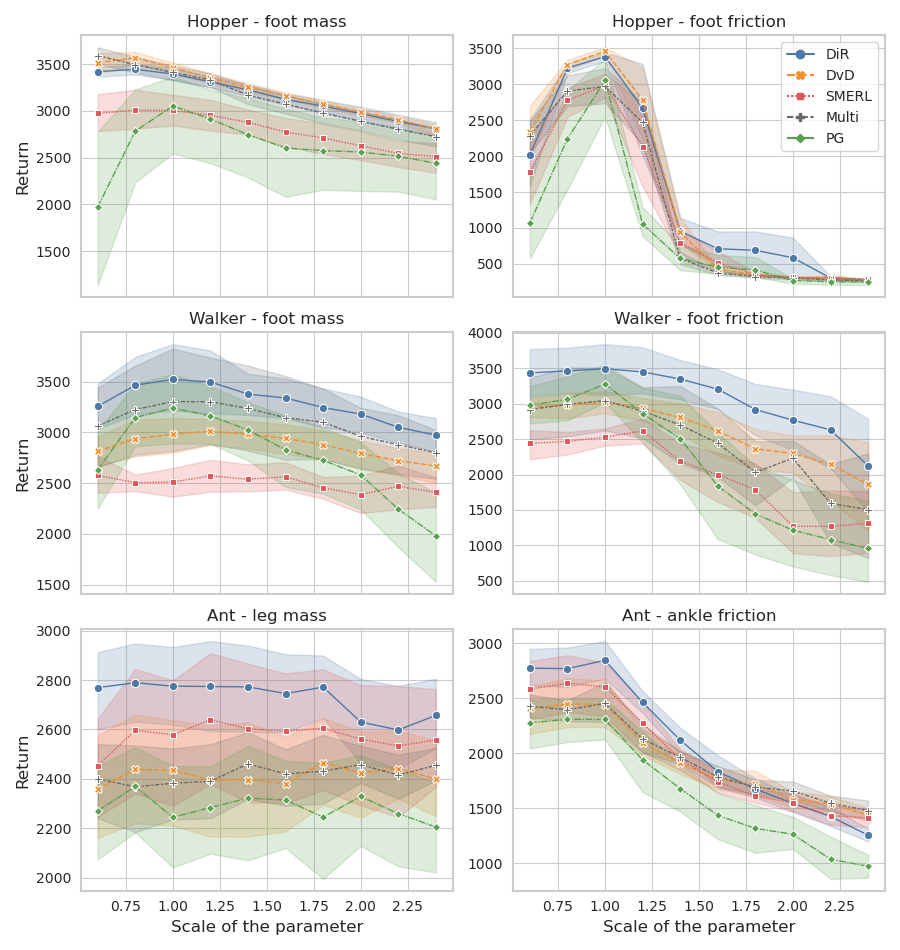
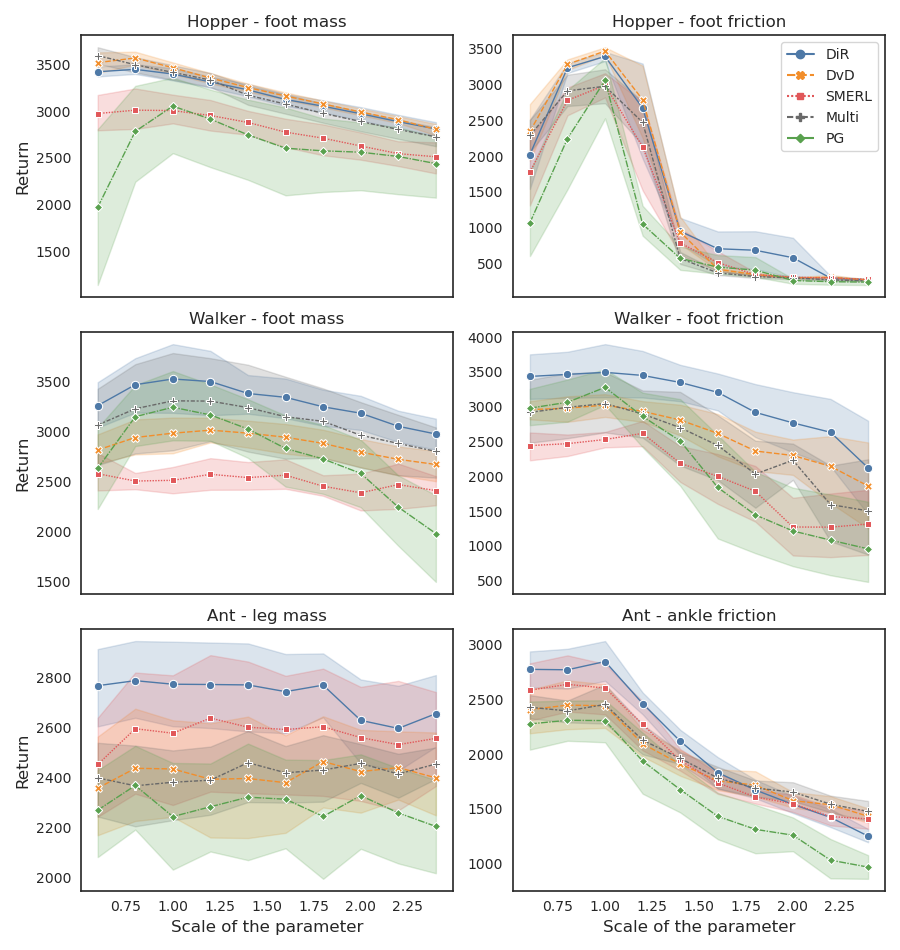
add new fig

diff --git a/experiment/train_ensemble.py b/experiment/train_ensemble.py
@@ -185,7 +185,7 @@ if __name__ == '__main__':
             }
         },
 
-        'num_primitive': 10,
+        'num_primitive': 15,
         'max_timesteps_per_primitive': 2000000,
         'save_interval': 40,
         'log_interval': 10,
@@ -208,9 +208,9 @@ if __name__ == '__main__':
     
     for env in [
         #'Hopper',
-        #'Walker',
+        'Walker',
         #'Ant',
-        'Minitaur'
+        #'Minitaur'
     ]:
         if env == 'Hopper':
             env_config = {
@@ -261,11 +261,12 @@ if __name__ == '__main__':
 
         for seed in [
             #10, 20, 30, 40, 50, 60, 70, 80
-            40, 50, 60
+            #40, 50, 60
+            10
         ]:
             config['env_config'] = env_config
             config['reward_tradeoff'] = tradeoff
             config['seed'] = seed
-            main(config, 'new_tradeoff')
+            #main(config, 'Open-ended-walker-15')
 
-    #demo('/home/xukang/Project/state_filtration_for_qd/results_for_ensemble/Walker-missing_leg_1-10/','best')
+    demo('/home/xukang/Project/state_filtration_for_qd/results_for_ensemble/Open-ended-walker-15-Walker-missing_leg_1-10/','best')

diff --git a/script_plot/visualize_feet_track.py b/script_plot/visualize_feet_track.py
@@ -43,7 +43,7 @@ def main(path: str, remark: str, chosen_primitive: List[int], episode_length=200
         policy.load_model(path + f'model/policy_{k}_{remark}')
         all_Pis.append(policy)
 
-    fig, axs = plt.subplots(nrows=len(chosen_primitive), ncols=1, sharex=True, tight_layout=True, figsize=(6, 3))
+    fig, axs = plt.subplots(nrows=len(chosen_primitive), ncols=1, sharex=False, tight_layout=True, figsize=(4, 4.3))
     for i, ax in enumerate(axs):
         policy = all_Pis[i]
         left_foot_contact   = []
@@ -88,7 +88,7 @@ def main(path: str, remark: str, chosen_primitive: List[int], episode_length=200
         ax.set_xlim(0, episode_length)
         ax.set_yticks([23, 10], labels=['LF', 'RF'], fontsize=12)
 
-    axs[-1].set_xlabel('Time step', fontsize=13)
+        ax.set_xlabel('Time step', fontsize=12)
     plt.show()
 
 
@@ -97,6 +97,8 @@ if __name__ == '__main__':
     chosen_mark         = 'best'
     chosen_primitive    = [0, 6, 7, 8]
     
+   
+
     main(
         path= chosen_exp_path,
         remark=chosen_mark,

diff --git a/script_plot/visualize_open_ended_solution_discovery.py b/script_plot/visualize_open_ended_solution_discovery.py
@@ -1,0 +1,34 @@
+from typing import List
+import numpy as np
+import pandas as pd
+import matplotlib.pyplot as plt
+import seaborn as sns
+
+
+list_of_rewards = [
+    2786.515, 1841.670, 1016.987, 2837.658, 3011.109, 3033.62, 2308.19, 3019.68, 2735.39, 2779.73
+]
+list_of_policy_id = list(range(1, 11))
+
+
+sns.set_style('whitegrid')
+
+fig, ax = plt.subplots(1, 1, figsize=(16, 4.2))
+sns.despine(fig, ax)
+
+sns.pointplot(
+    x= list_of_policy_id,
+    y= list_of_rewards,
+    linestyles= '',
+    ax= ax
+)
+
+
+for _, s in ax.spines.items():
+    s.set_linewidth(1.5)
+    s.set_color('black')
+ax.set_ylim((0, 4000))
+ax.set_xlabel('Policy index', fontsize=12)
+ax.set_ylabel('Return', fontsize=12)
+
+plt.show()

diff --git a/script_plot/plot_for_all_parameter_disturbance_conditions.py b/script_plot/plot_for_all_parameter_disturbance_conditions.py
@@ -53,7 +53,7 @@ def title_fig(env: str, param: str) -> str:
 
 
 def plot() -> None:
-    sns.set_style('whitegrid')
+    sns.set_style('white')
     fig, axes = plt.subplots(nrows=3, ncols=2, tight_layout=True, figsize=(9, 9.5), sharey=False, sharex=True)
     for i, ax in enumerate(axes.flat):
 
@@ -123,7 +123,7 @@ def plot() -> None:
             ax.set_ylabel('')
         ax.set_title(title_fig(env, param), fontsize=12)
         for _, s in ax.spines.items():
-            s.set_linewidth(1.5)
+            s.set_linewidth(1.2)
 
 
         #sns.despine(fig, ax)
